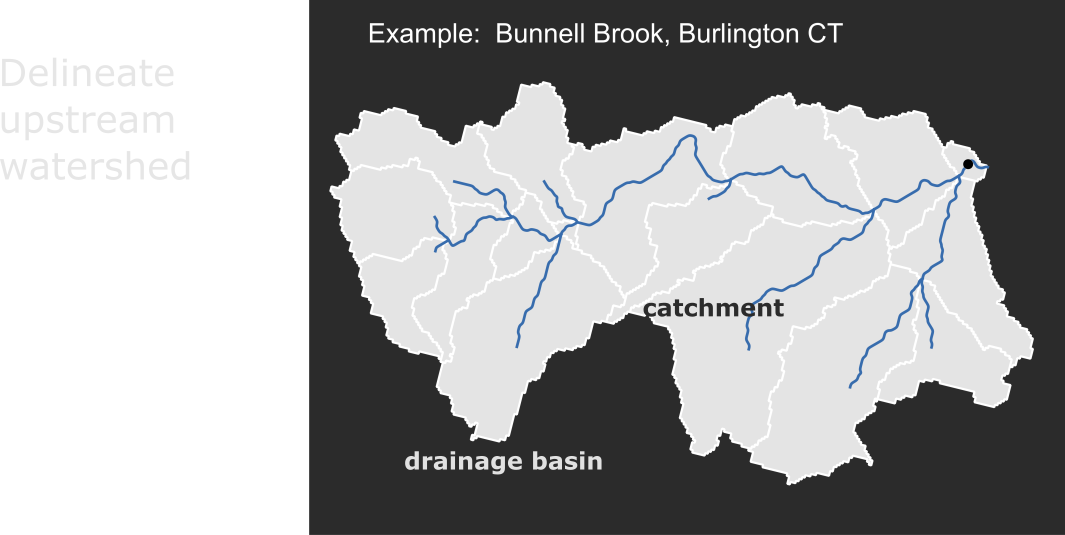
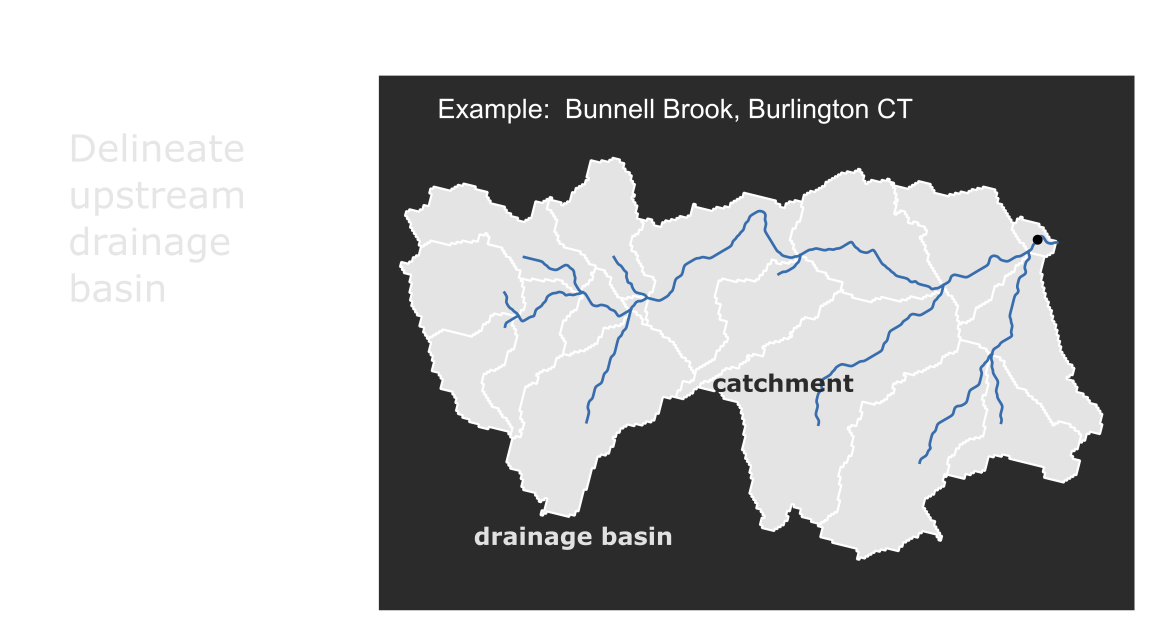
update Readme

diff --git a/README.md b/README.md
@@ -27,60 +27,64 @@ This information could be used by aquatic resource managers, decision makers and
 
 **General Modeling Approach**
 
-To develop models that make stream-specific prediction across Connecticut, I used macro-invertebrate and fish biological data sets collected over the past 30 years by the CT DEEP Monitoring and Assessment Program, as well as, the Inland Fisheries Program.  I also used a high resolution National Hydrography flowline and catchment data set that was developed by the [USGS Conte Lab]( http://conte-ecology.github.io/shedsGisData/) and cleaned for Connecticut. This data set is based on a network of stream segments.  The stream network was used to calculate drainage basin land cover statistics using a [custom script in R](https://github.com/marybecker/HQStreamEval/blob/main/analysis/accum_attributes_V2.R).
+![Figure 2. Flow network](presentation/images/catchment_drainage_basin.png)
 
-![Figure 2. Modeling Overview](presentation/images/model_workflow.png)
+*Figure 2. Example of flow network used for landscape analysis*
 
-*Figure 2. Overview of the approach used to model current high quality conditions acrosss the State of Connecticut*
+To develop models that make stream-specific prediction across Connecticut, I used macro-invertebrate and fish biological data sets collected over the past 30 years by the CT DEEP Monitoring and Assessment Program, as well as, the Inland Fisheries Program.  I also used a high resolution National Hydrography flowline and catchment data set that was developed by the [USGS Conte Lab]( http://conte-ecology.github.io/shedsGisData/) and cleaned for Connecticut. This data set is based on a network of stream segments.  The network consists of catchments representing drainage around individual streams segments that include a flow network that was used to identify total upstream drainages from sample locations (Figure 2).  The stream network was used to calculate drainage basin land cover statistics using a [custom script in R](https://github.com/marybecker/HQStreamEval/blob/main/analysis/accum_attributes_V2.R).
 
-The model was developed in several steps:
+![Figure 3. Modeling Overview](presentation/images/model_workflow_background.png)
+
+*Figure 3. Overview of the approach used to model current high quality conditions acrosss the State of Connecticut*
+
+The model was developed in several steps (Figure 3.):
 1.	Identify minimally disturbed streams that support high quality conditions and biological integrity (BCG Tiers 1 or 2) to create training and validation biological data sets
 2.	Characterize temporally and spatially specific drainage basin environments for each biological sample that includes corresponding land cover conditions for the nearest time period of sampling using the [UCONN CLEAR](https://clear.uconn.edu/projects/landscape/) and [CT DEEP](https://ct-deep-gis-open-data-website-ctdeep.hub.arcgis.com/) 30 M resolution land cover data sets that describe natural and human disturbance conditions.
-3.	Relate observed BCG to environmental predictors using a machine learning technique (e.g. random forests).
-4.	Assess model performance and validate using multiple observations made at randomly chosen stream segments.
+3.	Relate observed BCG to landscape predictors using a machine learning technique (e.g. random forests).
+4.	Assess model performance and validate using randomly choosen sample observations.
 
 **Biological Data Sets and Biological Condition Gradient Metric Calculations**
 
-Fish samples were collected by the CT DEEP Inland Fisheries and Ambient Monitoring and Assessment program using comparable methods during a May - October index period from 1988 – 2020 (Hagstrom et al. 1996, CT DEEP 2013). Crews sampled 10-20 mean stream widths with the average sample width being approximately 118 meters. Reach widths used in this data set ranged from 25 to 500 meters. The type of gear that a crew used depended on the stream width. In small streams, crews typically sample with one backpack shocker. In medium-sized streams, they used 2 backpack shockers or 1 tote barge, and in large streams, crews sampled with multi-tote barges. All captured individuals were measured to the nearest centimeter and are identified to the species level.
+Fish samples were collected by the CT DEEP Inland Fisheries and Ambient Monitoring and Assessment program using comparable methods during a May - October index period from 1988 – 2020 (Hagstrom et al. 1996, CT DEEP 2013). Crews sampled stream reach lengths that were 10-20 times the mean stream width with an average sample length of approximately 118 meters. Stream reach lengths used in this data set ranged from 25 to 500 meters. The type of gear that a crew used depended on the stream width. In small streams, crews typically sample with one backpack shocker. In medium-sized streams, they used 2 backpack shockers or 1 tote barge, and in large streams, crews sampled with multi-tote barges. All captured individuals were measured to the nearest centimeter and are identified to the species level.
 
-Benthic macro-invertebrate samples were collected by the CT DEEP Ambient Monitoring and Assessment program from September through November using an 800-u m-mesh kick net from 1989 - 2020. A total of 2 meters squared of riffle habitat (12 kicks composited from multiple riffles of a stream reach) were sampled at each location. Samples were preserved in 70% ethyl alcohol and brought back to the laboratory for subsampling. A 200-organism subsample was taken using a random grid design (Plafkin et al. 1989) from each sampling location. Organisms were identified to the lowest practical taxon, generally species.
+Benthic macro-invertebrate samples were collected by the CT DEEP Ambient Monitoring and Assessment program from September through November using an 800-um mesh kick net from 1989 - 2020. A total of 2 meters squared of riffle habitat (12 kicks composited from multiple riffles of a stream reach) were sampled at each location. Samples were preserved in 70% ethyl alcohol and brought back to the laboratory for subsampling. A 200-organism subsample was taken using a random grid design (Plafkin et al. 1989) from each sampling location. Organisms were identified to the lowest practical taxon, generally species.
 
 Biological condition gradient models have been developed for both macro-invertebrate and fish communities in Connecticut (Gerritsen & Jessup 2007, Stamp & Gerritsen 2013).  The models incorporate multiple attribute decision criteria to assign stream to levels or tiers of the BCG and it can be directly applied to designation of multiple aquatic life uses in Connecticut’s water quality criteria and standards.  The models were run using the [BioMonTools](https://github.com/leppott/BioMonTools) and [BCGcalc](https://github.com/leppott/BCGcalc) packages written for the R statistical programming language (Leppo 2022a, Leppo 2022b).
 
-![Figure 2. HQ Sampling Sites](analysis/images/Screenshot_HQRivers_112622.png)
+![Figure 4. HQ Sampling Sites](analysis/images/Screenshot_HQRivers_112622.png)
 
-*Figure 2. [BCG 1 and 2 Biological Sampling Sites 1988 - 2020 Interactive Map](https://marybecker.github.io/HighQualityStreams/)*
+*Figure 4. [BCG 1 and 2 Biological Sampling Sites 1988 - 2020 Interactive Map](https://marybecker.github.io/HighQualityStreams/)*
 
-The final data set used for modeling included 5169 samples collected within 1769 individual stream segments.  This included 3244 fish samples and 1925 macro-invertebrate samples.  425 stream segments (~24%) contained a high quality sample (BCG 1 or 2) (Figure 2).
+The final data set used for modeling included 5169 samples collected within 1769 individual stream segments.  This included 3244 fish samples and 1925 macro-invertebrate samples.  425 stream segments (~24%) contained a high quality sample (BCG 1 or 2) (Figure 4).
 
 **Characterization of temporally and spatially specific drainage basin conditions for biological samples**
 
-| Variable | Scale |Data resolution (m) | Source      |
+| Variable | Analysis Scale |Data resolution (m) | Source      |
 | ---------- | -------|----------------------   |-------------|
-| Core Forest 1985 - 2015| Drainage Basin |30 | UCONN CLEAR |
-| Fragmented Forest 1985 - 2015| Drainage Basin |30 | UCONN CLEAR |
-| Open Water 1985 - 2015| Drainage Basin |30 | UCONN CLEAR |
-| Wetland 1985 - 2015| Drainage Basin |30 | UCONN CLEAR |
-| Developed 1985 - 2015| Drainage Basin |30 | UCONN CLEAR |
-| Agriculture 1985 - 2015| Drainage Basin |30 | UCONN CLEAR |
-| Stratified Drift | Riparian |30 | CT DEEP     |
-| Road Density | Drainage Basin |30 | CT DEEP     |
-| Slope | Riparian |30 | CT DEEP     |
+| Core Forest 1985 - 2015| Catchment / Drainage Basin |30 | [UCONN CLEAR](https://clear.uconn.edu/projects/landscape/download/) |
+| Fragmented Forest 1985 - 2015| Catchment / Drainage Basin |30 | [UCONN CLEAR](https://clear.uconn.edu/projects/landscape/download/) |
+| Open Water 1985 - 2015| Catchment / Drainage Basin |30 | [UCONN CLEAR](https://clear.uconn.edu/projects/landscape/download/) |
+| Wetland 1985 - 2015| Catchment / Drainage Basin |30 | [UCONN CLEAR](https://clear.uconn.edu/projects/landscape/download/) |
+| Developed 1985 - 2015| Catchment / Drainage Basin |30 | [UCONN CLEAR](https://clear.uconn.edu/projects/landscape/download/) |
+| Agriculture 1985 - 2015| Catchment / Drainage Basin |30 | [UCONN CLEAR](https://clear.uconn.edu/projects/landscape/download/) |
+| Stratified Drift | Catchment / Drainage Basin |30 | [CT DEEP](https://ct-deep-gis-open-data-website-ctdeep.hub.arcgis.com/datasets/CTDEEP::connecticut-surficial-stratified-drift/about)     |
+| Road Density (Derived from Roads layer in R) | Drainage Basin |30 | [CT DEEP](https://deepmaps.ct.gov/datasets/CTDEEP::connecticut-road/about)     |
+| Slope (Derived from Elevation in QGIS) | Catchment |2 | [UCONN CLEAR](https://cteco.uconn.edu/data/lidar/index.htm)     |
 
 *Table 1. Landscape data used to predict high quality conditions in stream segments across Connecticut*
 
-I derived 9 predictors (Table 1) previously identified to effect sensitive biological populations in Connecticut (Bellucci et al. 2013,  Kanno et al. 2015).  These predictors focused on characterizing the spatial variation in naturally occurring and human disturbance regimes across Connecticut streams. [Landcover datasets](https://clear.uconn.edu/projects/landscape/index.htm) developed by the University of Connecticut Center for Land Use and Education and Research (UCONN CLEAR) for 7 different time periods (1985, 1990, 1995, 2002, 2006, 2010 and 2015).  They were used to derived percentages of land cover classes and forest fragmentation.  I first [developed a script](https://github.com/marybecker/HQStreamEval/blob/main/analysis/lc_catchment_stats.R) to reclassify each land cover category needed for the model and then extracted land cover classes for each NHD stream catchment.  Once the land cover data set was reclassified I calculated zonal statistics for each catchment polygon using the [terra package in R](https://cran.rstudio.com/web/packages/terra/terra.pdf) (Hijams 2021).  Next I calculated the cumulative upstream drainage basin land cover percentages using a [custom developed R script](https://github.com/marybecker/HQStreamEval/blob/main/analysis/accum_attributes_V2.R). I then developed a R script to extract the temporally and spatially specific observations for each land cover class that matched the [closest time and location (stream segment) of each biological observation](https://github.com/marybecker/HQStreamEval/blob/main/analysis/bio_closest_lc_yr.R).  In addition, I characterized geological and hydrological conditions, such as stratified drift, stream density, and upstream drainage basin area.
+I identified 9 predictors previously identified to effect sensitive biological populations in Connecticut (Bellucci et al. 2013,  Kanno et al. 2015) for multiple scales and time periods (Table 1).  These predictors focused on characterizing the spatial variation in naturally occurring and human disturbance regimes across Connecticut streams. [Landcover datasets](https://clear.uconn.edu/projects/landscape/index.htm) developed by the University of Connecticut Center for Land Use and Education and Research (UCONN CLEAR) for 7 different time periods (1985, 1990, 1995, 2002, 2006, 2010 and 2015) were used to derive percentages of land cover classes and forest fragmentation.  I first [developed a script](https://github.com/marybecker/HQStreamEval/blob/main/analysis/lc_catchment_stats.R) to reclassify each land cover category into a separate raster file.  Once the land cover data set was reclassified I used the zonal statistics tool in the [terra package in R](https://cran.rstudio.com/web/packages/terra/terra.pdf) (Hijams 2021) to calculate the percent land cover in each stream catchment.  Next I calculated the cumulative upstream drainage basin land cover percentages (sum of the catchment calculations) using a [custom developed R script](https://github.com/marybecker/HQStreamEval/blob/main/analysis/accum_attributes_V2.R). I then [developed a R script](https://github.com/marybecker/HQStreamEval/blob/main/analysis/bio_closest_lc_yr.R) to extract the temporally and spatially specific observations for each land cover class that matched the closest time and location (stream segment) of each biological observation.  In addition, I characterized geological and hydrological conditions, such as stratified drift, slope, stream density, and upstream drainage basin area.
 
 **Random Forest Model Development to Relate Observed High Quality Conditions to Predictors**
 
-I developed a random forest model to predict the occurrence of high quality conditions in Connecticut streams.  Random Forest (RF) is a regression and classification modeling approach that has been widely used in ecological modeling (Cutler et al. 2007, Valavi et al. 2021).  RF models combine predictions from many trees based on bootstrapped samples of predictor and response data to produce robust models resistant to overfitting.  Model accuracy was assessed by randomly reserving 20 percent of the samples for cross-validation testing.  [Models were built with the “randomForests” package in R](https://github.com/marybecker/HQStreamEval/blob/main/analysis/rf.R) (Liaw & Wiener 2002).  Multiple models were developed by adding and removing variables.  The best performing model with the highest and most consistent performing accuracy was chosen to use in the mapping application.  In all models core forest in the upstream drainage basin was the most important in explaining high quality conditions (Figure 2).
+I developed a random forest model to predict the occurrence of high quality conditions (BCG 1&2) in Connecticut streams.  Random Forest (RF) is a regression and classification modeling approach that has been widely used in ecological modeling (Cutler et al. 2007, Valavi et al. 2021).  RF models combine predictions from many trees based on bootstrapped samples of predictor and response data to produce robust models resistant to overfitting.  Model accuracy was assessed by randomly reserving 20 percent of the samples for cross-validation testing.  [Models were built with the “randomForests” package in R](https://github.com/marybecker/HQStreamEval/blob/main/analysis/rf.R) (Liaw & Wiener 2002).  Multiple models were developed by adding and removing predictor variables.  The best performing model with the highest and most consistent performing accuracy was chosen to use in the mapping application.  In all models core forest in the upstream drainage basin was the most important in explaining the most variation in high quality conditions (Figure 5).
 
-![Figure 3. RF Variable Importance Plot](analysis/images/RFVarImp.png)
+![Figure 5. RF Variable Importance Plot](analysis/images/RFVarImp.png)
 
-*Figure 3. Random Forest Variable Importance.  Predictors in the final model included percent core forest (coreforest), percent open water (openwater), percent wetland (wetland), percent agriculture (ag) and percent stratified drift (catch_strdrf_pct).  Importance is measured as the mean decrease in Gini Index for each predictor. The Gini Index is calculated as 2p(1 − p), where p is the proportion of one of the classes (e.g. presence and absence of HQ conditions are the classes)*
+*Figure 5. Random Forest Variable Importance.  Predictors in the final model included percent core forest (coreforest), percent open water (openwater), percent wetland (wetland), percent agriculture (ag) and percent stratified drift (catch_strdrf_pct).  Importance is measured as the mean decrease in Gini Index for each predictor. The Gini Index is calculated as 2p(1 − p), where p is the proportion of one of the classes (e.g. presence and absence of HQ conditions are the classes)*
 
 
-The final model included percent core forest in the drainage basin, percent open water in the drainage basin, percent wetland in the drainage basin, percent agriculture in the drainage basin and percent stratified drift in the stream catchment.  The final model had an overall accuracy of 70%, predicting high quality conditions correctly 67% of the time.
+The final model included percent core forest in the drainage basin, percent open water in the drainage basin, percent wetland in the drainage basin, percent agriculture in the drainage basin and percent stratified drift in the stream catchment.  The final model had an overall accuracy of 75%, predicting high quality conditions correctly 70% of the time.
 
 
 ## III. Mapping Methodology and Results
@@ -92,18 +96,18 @@ The stream catchment data was derived from a high resolution National Hydrograph
 
 **High Quality Stream Condition Data**
 
-The high quality stream condition data for the web-based mapping application was derived from the modeling results described in Section II.  Core forest in the upstream watershed was found to be the most important predictor in high quality stream conditions.  This is consistent with previous findings in Connecticut  showing that urban sprawl resulting in the reduction of core forest is a key threat to maintaining high quality conditions in Connecticut streams (Bellucci et al. 2013, Kanno et al.  2015, Barclay et al.  2016, Arnold et al. 2020, Condon 2022).
+The high quality stream condition data was derived from the modeling results described in Section II.  Core forest in the upstream drainage basin was found to be the most important predictor in high quality stream conditions.  This is consistent with previous findings in Connecticut showing that urban sprawl resulting in the reduction of core forest is a key threat to maintaining high quality conditions in Connecticut streams (Bellucci et al. 2013, Kanno et al.  2015, Barclay et al.  2016, Arnold et al. 2020, Condon 2022).
 
-The model was run using the most current land cover data (2015) (CT CLEAR, 2022) to identify the stream catchments with a high probability (> 50%) of supporting high quality conditions.  Twenty additional runs of the model were performed reducing the core forest in the upstream drainage basins by 1 percent each time to evaluate the changes in high quality stream conditions across the State for each reduction scenario.  The resulting model runs were compiled in a JSON file that was joined to the catchment data for drawing.
+The model was run using the most current land cover data (2015) (CT CLEAR, 2022) to identify the stream catchments with a high probability (> 50%) of supporting high quality conditions.  Twenty additional runs of the model were performed reducing the core forest in the upstream drainage basins by 1 percent each time to evaluate the changes in high quality stream conditions across the State for each reduction scenario.  The resulting model runs were compiled in a JSON file that was joined to the catchment data for rendering in the application.
 
 **Drainage Basin Condition Data**
 
-Calculations of the upstream drainage basin stream kilometers supporting high quality conditions was calculated using a [custom script developed in R](https://github.com/marybecker/HQStreamEval/blob/main/analysis/accum_attributes_V2.R).  The calculations were run to get the number of HQ stream kilometers under each core forest reduction scenario.  The resulting drainage basin calculations were compiled in a JSON file that was joined to the catchment data for use in the application.
+Calculations of the upstream drainage basin stream kilometers supporting high quality conditions was calculated using a [custom script developed in R](https://github.com/marybecker/HQStreamEval/blob/main/analysis/accum_attributes_V2.R).  The calculations were run to get the number of high quality stream kilometers under each core forest reduction scenario.  The resulting drainage basin calculations were compiled in a JSON file that was joined to the catchment data for use in the application.
 
 
 ### B. Medium for delivery
 
-The application is a web-based client-side mapping application primarily designed for typically desktop use with a 1280 X 1024 resolution, but is also suitable for smaller screen resolutions.  Pre-computed model predictions are served as JSON files.  A series of [R](https://www.r-project.org/) scripts document reproducible workflows of data processing and model development.  The technology stack for the web-based application includes HTML/CSS/Javascript, [D3.js](https://d3js.org/),  [MapBox JS GL](https://docs.mapbox.com/mapbox-gl-js/api/), [Observable Plot](https://observablehq.com/plot), [Google Fonts](https://fonts.google.com/about) and a [Bootstrap responsive framework](https://getbootstrap.com/).
+The application is a web-based client-side mapping application primarily designed for typically desktop use with a 1280 X 1024 resolution, but is also suitable for smaller screen resolutions.  Pre-computed model predictions are served as JSON files.  A series of [R](https://www.r-project.org/) scripts document reproducible workflows of data processing and model development.  The technology stack for the web-based application includes HTML/CSS/Javascript, [D3.js](https://d3js.org/),  [MapBox JS GL](https://docs.mapbox.com/mapbox-gl-js/api/), [Observable Plot](https://observablehq.com/plot), [Google Fonts](https://fonts.google.com/about) and [Bootstrap](https://getbootstrap.com/).
 
 ### C. Application layout
 
@@ -113,13 +117,13 @@ The application layout is a simple straight forward design with a small top titl
 
 ![HQ Vulnerability](presentation/images/hq_water_vulnerability_map_mockup.jpg)
 
-*Figure 4.  Full Scale Wire Frame*
+*Figure 6.  Full Scale Wire Frame*
 
 The mapping application displays the likelihood of stream network drainage catchments supporting high quality conditions and biological integrity.  The catchment data is represented as polygons.  Drainage catchments are areas that drain to a particular stream segment.  Catchments are delineated based on the underlying stream network.  Use of drainage catchments convey the importance of land-water interactions that effect stream conditions.  The likelihood of a drainage catchment supporting high quality conditions is displayed using a color gradient of blue to orange.  The more likely a catchment is predicted to support a high quality condition, the darker the blue color will be displayed.  Catchments with less than a 50% likelihood are displayed as varying shades of orange.
 
 ### E. User Interaction
 
-The mapping application allows the user to explore 'what-if' scenarios through an interaction with a slider bar.  The slider bar indicates a level of human induced change in core forest that effects the condition of the stream.  The slider bar indicates a percent reduction of core forest in the upstream drainage basin from the original condition for each high quality stream segment.  As the user changes the percent reduction using the slider bar the corresponding catchments change in color based on model predictions for that change.  In this action the slider is displaying updated model predictions based on the changed input data.  Stream loss of high quality conditions with a reduction in core forest from the original condition is indicated by highlighting the catchments that changed in varying shades of orange.
+The mapping application allows the user to explore 'what-if' scenarios through an interaction with a slider bar.  The slider bar is used to change the level of human induced disturbance in core forest causing an effect in the condition streams across the State.  The level of disturbance is noted below the slider showing the percent reduction of core forest in the upstream drainage basin from the current condition for each high quality stream segment.  As the user changes the percent reduction using the slider bar the corresponding catchments change in color based on model predictions.  In this action the slider is displaying updated model predictions based on the changed input data.  Stream loss of high quality conditions with a reduction in core forest from the original condition is indicated by changing the catchment color to varying shades of orange.
 
 Overall high quality stream kilometer loss across the State for a given condition is calculated on the fly.  The calculation is displayed and plotted within the legend.  Users can also hover over a catchment which highlights the catchment of interest and displays a popup giving the precise probability prediction for the given model inputs.  Within the hover over, users can also find the number and percentage of high quality stream kilometers lost within the upstream drainage basin for the given reduction of core forest from current condition.
 
@@ -138,7 +142,7 @@ Urban sprawl resulting in the reduction of core forest is a key threat to mainta
 
 ## V. Acknowledgments
 
-Much thanks to my advisor Rich Donohue at UKY for his guidance and helpful suggestions in the development of this project.  Thanks to Boyd Shearer at UKY for code examples and Timothy Becker at UHartford for code examples, suggestions and comments that greatly improved this map. Thanks to my class mates in Digital Mapping 699 at UKY for the very helpful suggestions that greatly improved the usability of the map. Thanks to the Monitoring and Assessment and GIS staff at CT DEEP for their dedicated efforts to collect, organize and manage and high-quality data.  Thanks to Tony Stallins and Alice Turkington at UKY for review of the project and serving on my MS committee.
+Much thanks to my advisor Rich Donohue at UKY for his guidance and helpful suggestions in the development of this project.  Thanks to Boyd Shearer at UKY for code examples and Timothy Becker at UHartford for code examples, suggestions and comments that greatly improved this map. Thanks to my class mates in Digital Mapping 699 at UKY for the very helpful suggestions that greatly improved the usability of the map. Thanks to the Monitoring and Assessment, Inland Fisheries and GIS staff at CT DEEP for their dedicated efforts to collect, organize and manage and high-quality data.  Thanks to Tony Stallins and Alice Turkington at UKY for review of the project and serving on my MS committee.
 
 ## VI. References
 
